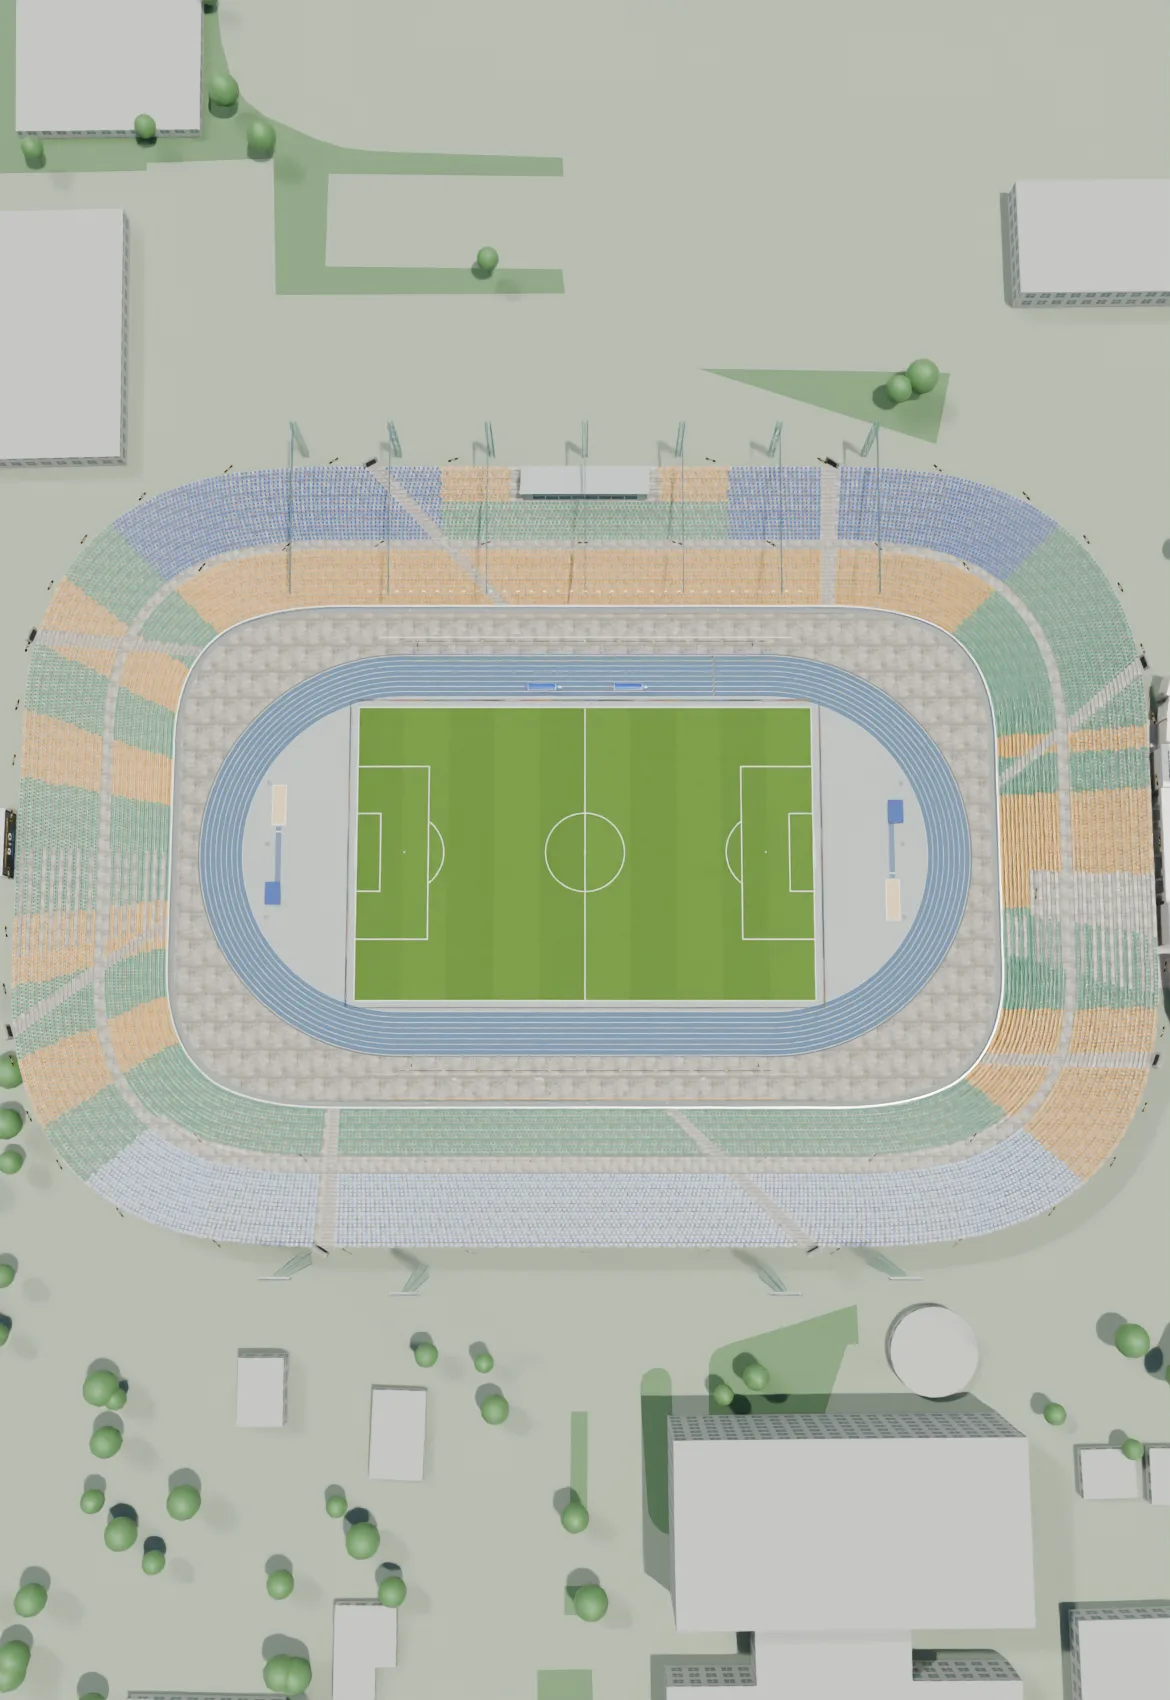
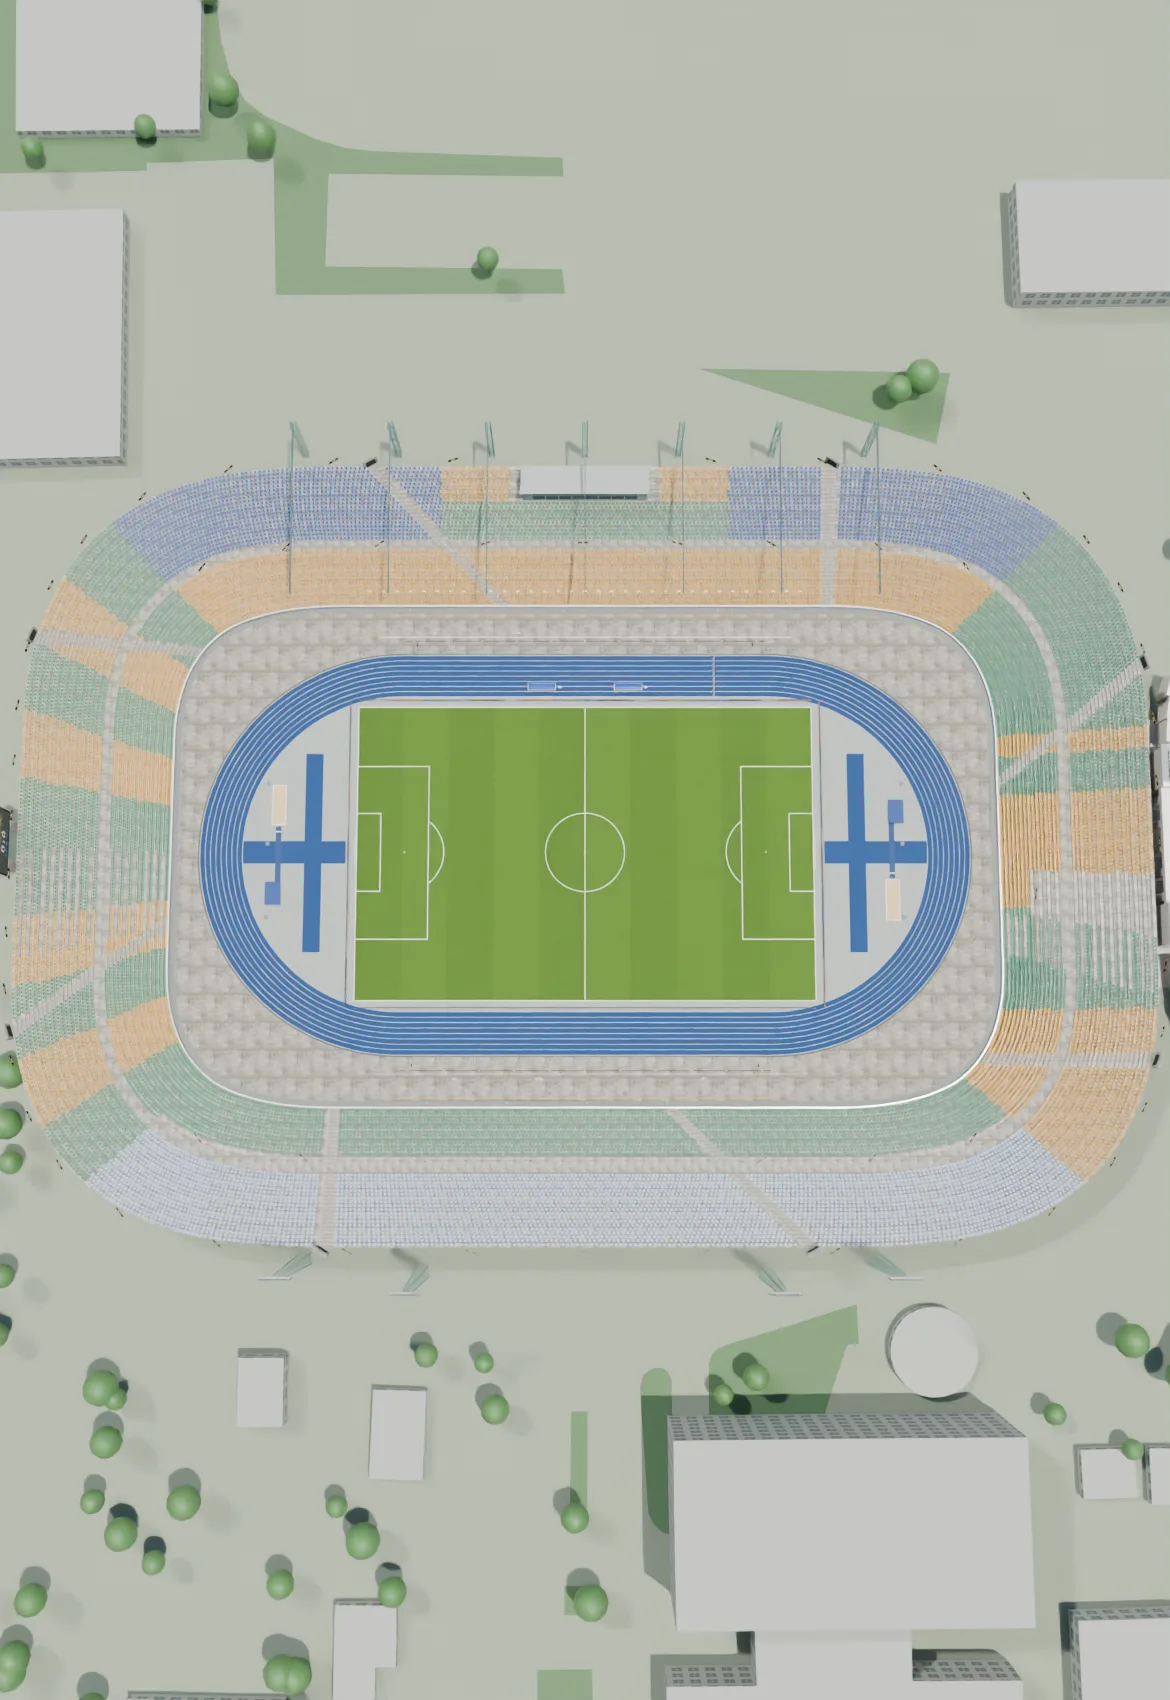
Насыщенно синяя дорожка с разбегами за воротами; табло поднято над южной трибуной на пилонах

Changed region(s): [[0.1538, 0.3741, 0.8308, 0.6235], [0.0, 0.4676, 0.0308, 0.53]]

diff --git a/outputs/stadium-pilot/src/main.js b/outputs/stadium-pilot/src/main.js
@@ -334,7 +334,8 @@ trackNormal.wrapS = THREE.RepeatWrapping;
 trackNormal.wrapT = THREE.RepeatWrapping;
 trackNormal.repeat.set(0.5, 0.5);
 trackNormal.anisotropy = Math.min(renderer.capabilities.getMaxAnisotropy(), 8);
-const track = new THREE.MeshStandardMaterial({ color: '#405a70', roughness: 0.95, normalMap: trackNormal, normalScale: new THREE.Vector2(0.5, 0.5) });
+// Дорожка насыщенного синего, как на снимках 25.09.2025.
+const track = new THREE.MeshStandardMaterial({ color: '#0f3866', roughness: 0.95, normalMap: trackNormal, normalScale: new THREE.Vector2(0.5, 0.5) });
 weather(track, { stains: false });
 const white = material('#e8ead9');
 // Пластик кресел: на компьютерах с глянцевым лаковым слоем, ловит отражения неба.
@@ -721,6 +722,13 @@ flat(stadiumPath(TRACK_OUTER, new THREE.Shape()), stadiumPath(TRACK_INNER), 0.04
 const infield = material('#8e948f', 0.96);
 weather(infield, { stains: false, ao: 0 });
 flat(stadiumPath(TRACK_INNER, new THREE.Shape()), null, 0.02, infield);
+// Синие участки разбега крестом в секторах за воротами (форма по снимкам, размеры на глаз).
+for (const side of [-1, 1]) {
+  for (const [from, to, halfWidth] of [[55, TRACK_STRAIGHT + TRACK_INNER, 2.6], [60.5, 64.5, 23]]) {
+    const shape = new THREE.Shape([[from, -halfWidth], [to, -halfWidth], [to, halfWidth], [from, halfWidth]].map(([x, z]) => new THREE.Vector2(side * x, z)));
+    flat(shape, null, halfWidth > 10 ? 0.026 : 0.027, track);
+  }
+}
 createApronDetails({ scene, farZ: 52 * bowlScaleZ, anisotropy: pitchAnisotropy });
 for (let i = 0; i <= 8; i += 1) {
   flat(stadiumPath(TRACK_INNER + i * TRACK_LANE + 0.03, new THREE.Shape()), stadiumPath(TRACK_INNER + i * TRACK_LANE - 0.03), 0.07, white);
@@ -1382,8 +1390,10 @@ for (const x of [-52.5, 52.5]) {
 const scoreboardFrame = material('#b7bcb7');
 const scoreboardScreen = material('#151d1d');
 const scoreboardX = warpX(-99 * bowlScaleX);
-for (const z of [-4.5, 4.5]) box(1, 10, 1, scoreboardX, 5, z, scoreboardFrame);
-box(1.2, 7.6, 15, scoreboardX, 13.8, 0, scoreboardFrame);
+const SCOREBOARD_Y = 17.8;
+// Табло поднято над верхним рядом (он на 13,2 м) на двух бетонных пилонах, как на снимках 2025 года.
+for (const z of [-4.5, 4.5]) box(1.6, 14.2, 1.8, scoreboardX, 7.1, z, concrete);
+box(1.2, 7.6, 15, scoreboardX, SCOREBOARD_Y, 0, scoreboardFrame);
 const scoreCanvas = document.createElement('canvas');
 scoreCanvas.width = 2048;
 scoreCanvas.height = 960;
@@ -1411,9 +1421,9 @@ scoreTexture.colorSpace = THREE.SRGBColorSpace;
 scoreTexture.anisotropy = 8;
 const scoreLit = new THREE.MeshStandardMaterial({ map: scoreTexture, emissive: '#ffffff', emissiveMap: scoreTexture, emissiveIntensity: 1.2, roughness: 0.35 });
 // Тёмная рамка вокруг экрана табло.
-box(0.04, 7.2, 14.5, scoreboardX + 0.62, 13.8, 0, scoreboardScreen);
+box(0.04, 7.2, 14.5, scoreboardX + 0.62, SCOREBOARD_Y, 0, scoreboardScreen);
 const scoreScreen = new THREE.Mesh(new THREE.BoxGeometry(0.08, 6.4, 13.7), [scoreLit, scoreboardScreen, scoreboardScreen, scoreboardScreen, scoreboardScreen, scoreboardScreen]);
-scoreScreen.position.set(scoreboardX + 0.64, 13.8, 0);
+scoreScreen.position.set(scoreboardX + 0.64, SCOREBOARD_Y, 0);
 scene.add(scoreScreen);
 // Четыре мачты освещения по 40 м на восточном краю (модель из work/blender/create_floodlight_masts.py).
 // Светящиеся панели ламп (вечером ярче) повторяют положение ламп модели.

diff --git a/outputs/stadium-pilot/src/planLayer.js b/outputs/stadium-pilot/src/planLayer.js
@@ -3,7 +3,7 @@
 // Подсветка рисуется на 2D-слое по контурам из sectors.json: выбранный сектор яркий с золотой кромкой, остальные приглушены.
 // Версия готового плана: меняйте вместе с файлами pre/plan. Иначе кэш на устройстве отдаст старую картинку или маску
 // к новым номерам секторов, и нажатие откроет чужой сектор.
-const PLAN_VERSION = 6;
+const PLAN_VERSION = 7;
 
 export function createPlanLayer({ asset, getArea, onHover, onPick }) {
   const root = document.createElement('div');

diff --git a/outputs/stadium-pilot/src/pitchSide.js b/outputs/stadium-pilot/src/pitchSide.js
@@ -353,7 +353,7 @@ export function createApronDetails({ scene, farZ, anisotropy }) {
     parts.box(3.5, 0.08, 5.3, '#173c78', at(71.5), 0.69, -mirror - side * 1.5);
     parts.box(3.2, 0.05, 9.4, '#e8e9e2', at(70.5), 0.035, mirror + side * 3);
     parts.box(2.9, 0.06, 9.1, '#c4ad7c', at(70.5), 0.04, mirror + side * 3);
-    parts.box(1.3, 0.025, 15, '#486075', at(70.5), 0.036, mirror - side * 9.5);
+    parts.box(1.3, 0.025, 15, '#0f3866', at(70.5), 0.036, mirror - side * 9.5);
     parts.box(1.3, 0.032, 0.2, '#f2f2ec', at(70.5), 0.037, mirror - side * 3.2);
     for (const z of [-16, -2, 15]) {
       parts.box(0.92, 0.018, 0.92, '#4a5154', at(73), 0.03, z);

diff --git a/outputs/stadium-pilot/README.md b/outputs/stadium-pilot/README.md
@@ -150,7 +150,9 @@ HDR-небо на компьютерах: `sky-2k.hdr`, Poly Haven, Kloppenheim 
 
 Скрипт вечернего света принимает полную сцену в формате GLB или Blender (`--glb` или `--blend`). Для будущей сцены с четырьмя восточными мачтами параметры пробного запекания вечернего света приведены в `work/stadium-geometry-handoff.md`. Текущая карта рассчитана для старых угловых мачт; менять её следует после обновления и повторного экспорта полной сцены.
 
-Увеличенная чаша: трибуны растянуты до 227 × 175 м (по данным OpenStreetMap) коэффициентами `bowlScaleX/bowlScaleZ` в `src/main.js`; поле, дорожки, кресла и высоты прежние, число мест и секторов не изменилось. Четыре мачты по 40 м стоят на восточном краю (`floodlight-masts.glb`), крыша только над западной трибуной (`stadium-roof.glb`). **Крыша, мачты, скамейки** по тем же снимкам: полупрозрачные бирюзовые панели на тёмных фермах, решётчатые опоры и светлая балка по передней кромке (`create_stadium_roof.py`); бирюзовые мачты в местах вдоль поля по узлам OpenStreetMap, сразу за восточной трибуной модели (`create_floodlight_masts.py`, `mastPlaces`); передвижные синие «ракушки» с чёрно-жёлтыми креслами (`createDugouts`), без настоящей рекламы. Положение скамеек вдоль поля не подтверждено; карта вечернего света на земле запечена под прежние мачты и не пересчитывалась.
+Увеличенная чаша: трибуны растянуты до 227 × 175 м (по данным OpenStreetMap) коэффициентами `bowlScaleX/bowlScaleZ` в `src/main.js`; поле, дорожки, кресла и высоты прежние, число мест и секторов не изменилось. Четыре мачты по 40 м стоят на восточном краю (`floodlight-masts.glb`), крыша только над западной трибуной (`stadium-roof.glb`). **Дорожка и табло** по тем же снимкам: дорожка насыщенно синяя, в секторах за воротами синие участки разбега крестом; табло поднято над верхним рядом юга на двух пилонах. Проход под табло в трибуне не вырезан; размеры на глаз.
+
+**Крыша, мачты, скамейки** по тем же снимкам: полупрозрачные бирюзовые панели на тёмных фермах, решётчатые опоры и светлая балка по передней кромке (`create_stadium_roof.py`); бирюзовые мачты в местах вдоль поля по узлам OpenStreetMap, сразу за восточной трибуной модели (`create_floodlight_masts.py`, `mastPlaces`); передвижные синие «ракушки» с чёрно-жёлтыми креслами (`createDugouts`), без настоящей рекламы. Положение скамеек вдоль поля не подтверждено; карта вечернего света на земле запечена под прежние мачты и не пересчитывалась.
 
 **Цвета кресел** (`seatColor` в `src/main.js`) повторяют раскладку со снимков 25.09.2025 (Kazinform, NewTimes; снимки только для сверки): юг — десять чередующихся зелёных и жёлтых клиньев; север — жёлтый центр над колоннадой, зелёные блоки по бокам, жёлтые участки; запад — жёлтый низ, тёмно-синий верх с зелёно-жёлтыми вставками у ложи; восток — зелёный низ и светло-голубой верх. Границы блоков подобраны на глаз; VIP-кресла и ложа прессы не выделены.
 
